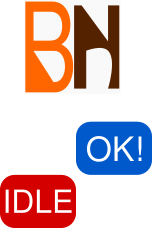
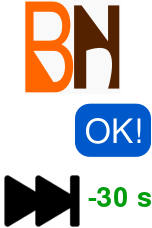
V1.5 realised

Changed region(s): [[0.0, 0.4298, 1.0, 1.0], [0.5789, 0.7982, 0.8421, 0.9211], [0.8947, 0.8289, 1.0, 0.9211]]

diff --git a/welcome.html b/welcome.html
@@ -17,7 +17,7 @@
                 <img src="assets/bayhelper_logo.png" width="112" height="28">
                 </a>
                 <!-- Version -->
-                <div class="navbar-item" style="padding-left:0.5rem">V 1.3</div>
+                <div class="navbar-item" style="padding-left:0.5rem; color:#034acc">V 1.5</div>
                 <a role="button" class="navbar-burger burger" aria-label="menu" aria-expanded="false" data-target="navbarBasicExample">
                 <span aria-hidden="true"></span>
                 <span aria-hidden="true"></span>
@@ -40,7 +40,7 @@
                 </a>
 
                 </div>
-                <a  class="navbar-item" href="en/welcome.html" style="padding-left:0.5rem">EN</a>
+                <a  class="navbar-item" href="en/welcome.html" style="padding-left:0.5rem;">EN</a>
                 <a  class="navbar-item" href="welcome.html" style="font-weight: bold;padding-left:0.5rem">ES</a>
             </div>
      </nav>
@@ -59,24 +59,23 @@
                 <div class="columns">
                     <div class="column is-one-third">
                         <div class="column has-text-centered">
-                                <h2 class="title is-4">Te notifica cuando...</h2>
-                                <div class="column ">
-                                    <img src="assets/ok_notification.png"alt="" style="padding-right:1rem"> <p class="subtitle">Puedes pasar al siguiente video</p>
-
-                                </div>
+                                <h2 class="title is-4">Ahorra tu tiempo</h2>
                                 <div class="column">
-                                        <img src="assets/idle_notification.png" alt=""> <p class="subtitle">El video se ha detenido o ha culminado antes de tiempo</p>
+                                    <h2 class="subtitle ">Termina los videos 20-30 segundos más rápido</h2>
                                 </div>
+                                <i class="fas fa-3x fa-forward" style="color:rgb(61, 61, 61)"></i><span class="subtitle" style="color:rgb(61, 61, 61)">-30 s</span>
                         </div>
                     </div>
                     <div class="column is-one-third">
                             <div class="column has-text-centered">
-                                    <h2 class="title is-4">Salta rapidamente al siguiente video</h2>
-                                    <div class="column">
-                                        <h2 class="subtitle ">Ahorra tu tiempo y clics de más</h2>
-                                    </div>
-                                    <i class="fas fa-3x fa-forward" style="color:rgb(61, 61, 61)"></i>
+                                    <h2 class="title is-4">Te notifica cuando...</h2>
+                                    <div class="column ">
+                                        <img src="assets/ok_notification.png"alt="" style="padding-right:1rem"> <p class="subtitle">Puedes pasar al siguiente video</p>
 
+                                    </div>
+                                    <div class="column">
+                                            <img src="assets/idle_notification.png" alt=""> <p class="subtitle">El video se ha detenido o ha culminado antes de tiempo</p>
+                                    </div>
                             </div>
                     </div>
                     <div class="column is-one-third">

diff --git a/en/welcome.html b/en/welcome.html
@@ -17,7 +17,7 @@
                     <img src="assets/bayhelper_logo.png" width="112" height="28">
                     </a>
                     <!-- Version -->
-                    <div class="navbar-item" style="padding-left:0.5rem">V 1.3</div>
+                    <div class="navbar-item" style="padding-left:0.5rem; color:#034acc">V 1.5</div>
                     <a role="button" class="navbar-burger burger" aria-label="menu" aria-expanded="false" data-target="navbarBasicExample">
                     <span aria-hidden="true"></span>
                     <span aria-hidden="true"></span>
@@ -63,6 +63,15 @@
                 <div class="columns">
                     <div class="column is-one-third">
                         <div class="column has-text-centered">
+                                <h2 class="title is-4">Save your time</h2>
+                                <div class="column">
+                                    <h2 class="subtitle ">Complete videos 20-30 seconds faster</h2>
+                                </div>
+                                <i class="fas fa-3x fa-forward" style="color:rgb(61, 61, 61)"></i><span class="subtitle" style="color:rgb(61, 61, 61)">-30 s</span>
+                        </div>
+                    </div>
+                    <div class="column is-one-third">
+                        <div class="column has-text-centered">
                                 <h2 class="title is-4">It notifies you when...</h2>
                                 <div class="column ">
                                     <img src="assets/ok_notification.png"alt="" style="padding-right:1rem"> <p class="subtitle">You can skip to the next video</p>
@@ -72,16 +81,6 @@
                                         <img src="assets/idle_notification.png" alt=""> <p class="subtitle">The video has stopped or ended too early</p>
                                 </div>
                         </div>
-                    </div>
-                    <div class="column is-one-third">
-                            <div class="column has-text-centered">
-                                    <h2 class="title is-4">Skip quickly to the next video</h2>
-                                    <div class="column">
-                                        <h2 class="subtitle ">Save your time and clicks</h2>
-                                    </div>
-                                    <i class="fas fa-3x fa-forward" style="color:rgb(61, 61, 61)"></i>
-
-                            </div>
                     </div>
                     <div class="column is-one-third">
                             <div class="column has-text-centered">

diff --git a/index.html b/index.html
@@ -17,7 +17,7 @@
                     <img src="assets/bayhelper_logo.png" width="112" height="28">
                     </a>
                     <!-- Version -->
-                    <div class="navbar-item" style="padding-left:0.5rem">V 1.3</div>
+                    <div class="navbar-item" style="padding-left:0.5rem; color:#034acc">V 1.5</div>
                     <a role="button" class="navbar-burger burger" aria-label="menu" aria-expanded="false" data-target="navbarBasicExample">
                     <span aria-hidden="true"></span>
                     <span aria-hidden="true"></span>
@@ -57,10 +57,10 @@
                             Genera entradas más rápido y comodamente
                             </h2>
                             <ul>
+                                <li><span class="icon is-medium"><i class="fas fa-lg fa-check"></i></span> <span class="subtitle">Termina los videos <span style="color:#034acc">20-30 segundos más rapido</span></span></li>
                                 <li><span class="icon is-medium"><i class="fas fa-lg fa-check"></i></span>Notificaciones de completación/pausa de videos</li>
                                 <li><span class="icon is-medium"><i class="fas fa-lg fa-check"></i></span> Automatización para acceder rapidamente al siguiente video</li>
                                 <li><span class="icon is-medium"><i class="fas fa-lg fa-check"></i></span>Atajo a la pagina Baymack.com /Baylom.com desde la barra de herramientas o con las teclas Alt + A</li>
-                                <li><span class="icon is-medium"><i class="fas fa-lg fa-check"></i></span>Trabaja simultaneamente con Baymack y Baylom</li>
                             </ul>
                             <div class="columns" style="padding-top:1.5rem">
                                 <div class="column"><h3  class="title is-5">Ver guía de instalación</h3></div>

diff --git a/en/index.html b/en/index.html
@@ -17,7 +17,7 @@
                     <img src="assets/bayhelper_logo.png" width="112" height="28">
                     </a>
                     <!-- Version -->
-                    <div class="navbar-item" style="padding-left:0.5rem">V 1.3</div>
+                    <div class="navbar-item" style="padding-left:0.5rem; color:#034acc">V 1.5</div>
                     <a role="button" class="navbar-burger burger" aria-label="menu" aria-expanded="false" data-target="navbarBasicExample">
                     <span aria-hidden="true"></span>
                     <span aria-hidden="true"></span>
@@ -58,10 +58,10 @@
                                 Make entries faster and more easily.
                             </h2>
                             <ul>
+                                <li><span class="icon is-medium"><i class="fas fa-lg fa-check"></i></span> <span class="subtitle">Complete videos <span style="color:#034acc">20-30 seconds faster</span></span></li>
                                 <li><span class="icon is-medium"><i class="fas fa-lg fa-check"></i></span>Video completion/pause notifications</li>
                                 <li><span class="icon is-medium"><i class="fas fa-lg fa-check"></i></span>Quick access to the next video</li>
                                 <li><span class="icon is-medium"><i class="fas fa-lg fa-check"></i></span>Shortcut to Baymack.com and Baylom.com from the toolbar or with the keyboard shortcut Alt + A</li>
-                                <li><span class="icon is-medium"><i class="fas fa-lg fa-check"></i></span>Work on Baymack and Baylom at the same time</li>
                             </ul>
                             <div class="columns" style="padding-top:1.5rem">
                                 <div class="column"><h3  class="title is-5">Read the installation guide</h3></div>

diff --git a/en/install.html b/en/install.html
@@ -17,7 +17,7 @@
                     <img src="assets/bayhelper_logo.png" width="112" height="28">
                     </a>
                     <!-- Version -->
-                    <div class="navbar-item" style="padding-left:0.5rem">V 1.3</div>
+                    <div class="navbar-item" style="padding-left:0.5rem; color:#034acc">V 1.5</div>
                     <a role="button" class="navbar-burger burger" aria-label="menu" aria-expanded="false" data-target="navbarBasicExample">
                     <span aria-hidden="true"></span>
                     <span aria-hidden="true"></span>

diff --git a/install.html b/install.html
@@ -17,7 +17,7 @@
                 <img src="assets/bayhelper_logo.png" width="112" height="28">
                 </a>
                 <!-- Version -->
-                <div class="navbar-item" style="padding-left:0.5rem">V 1.3</div>
+                <div class="navbar-item" style="padding-left:0.5rem; color:#034acc">V 1.5</div>
                 <a role="button" class="navbar-burger burger" aria-label="menu" aria-expanded="false" data-target="navbarBasicExample">
                 <span aria-hidden="true"></span>
                 <span aria-hidden="true"></span>
